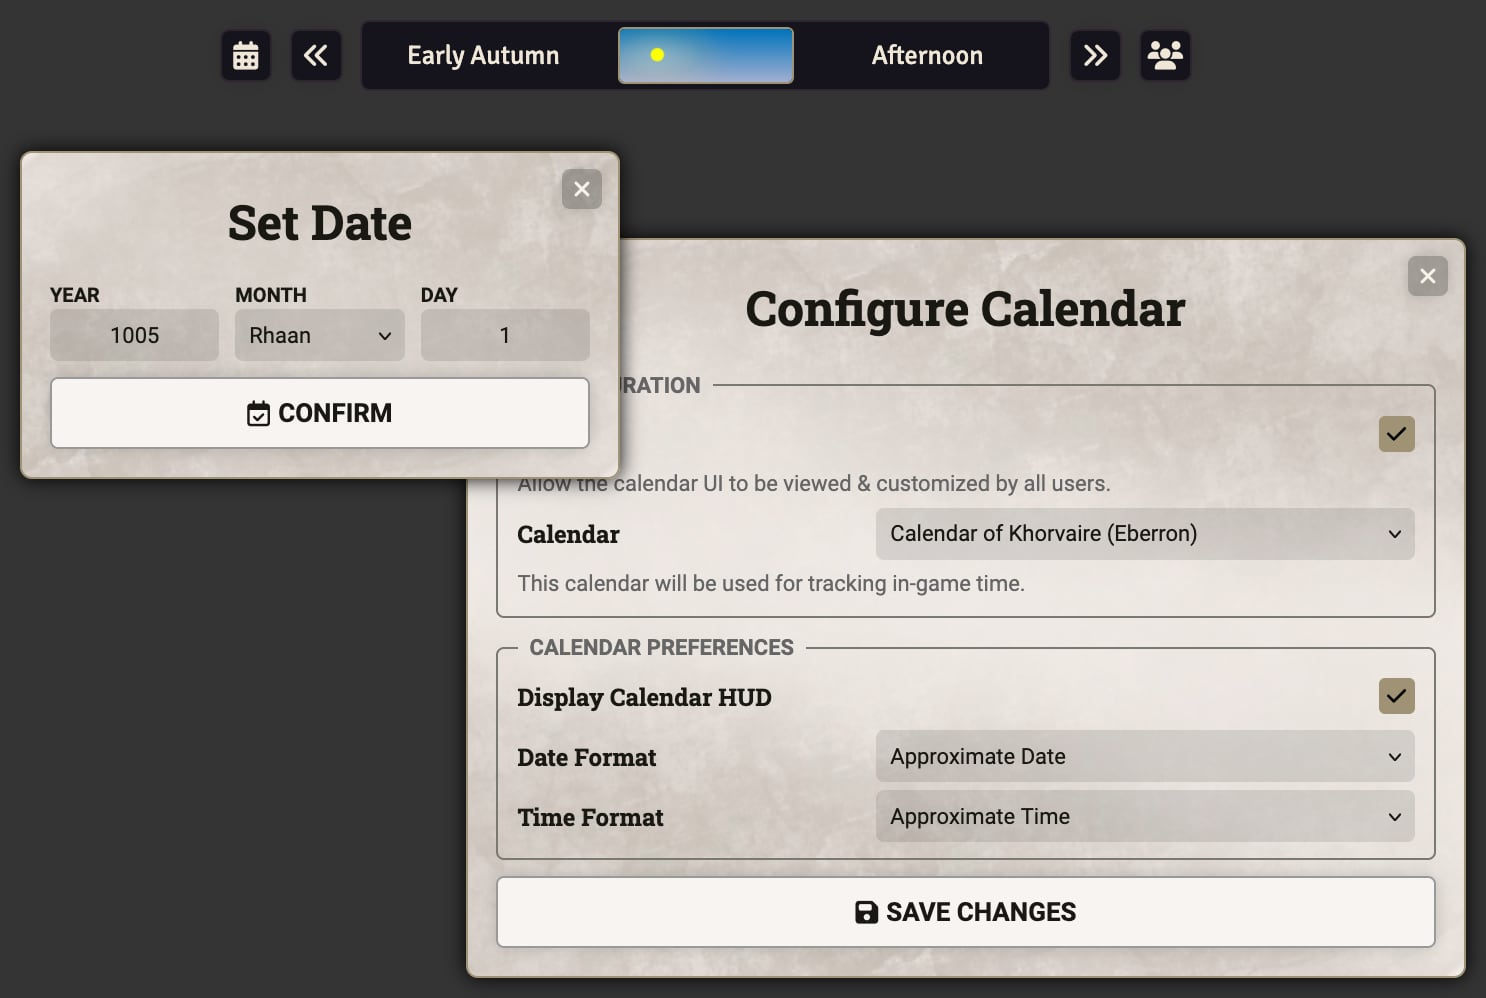
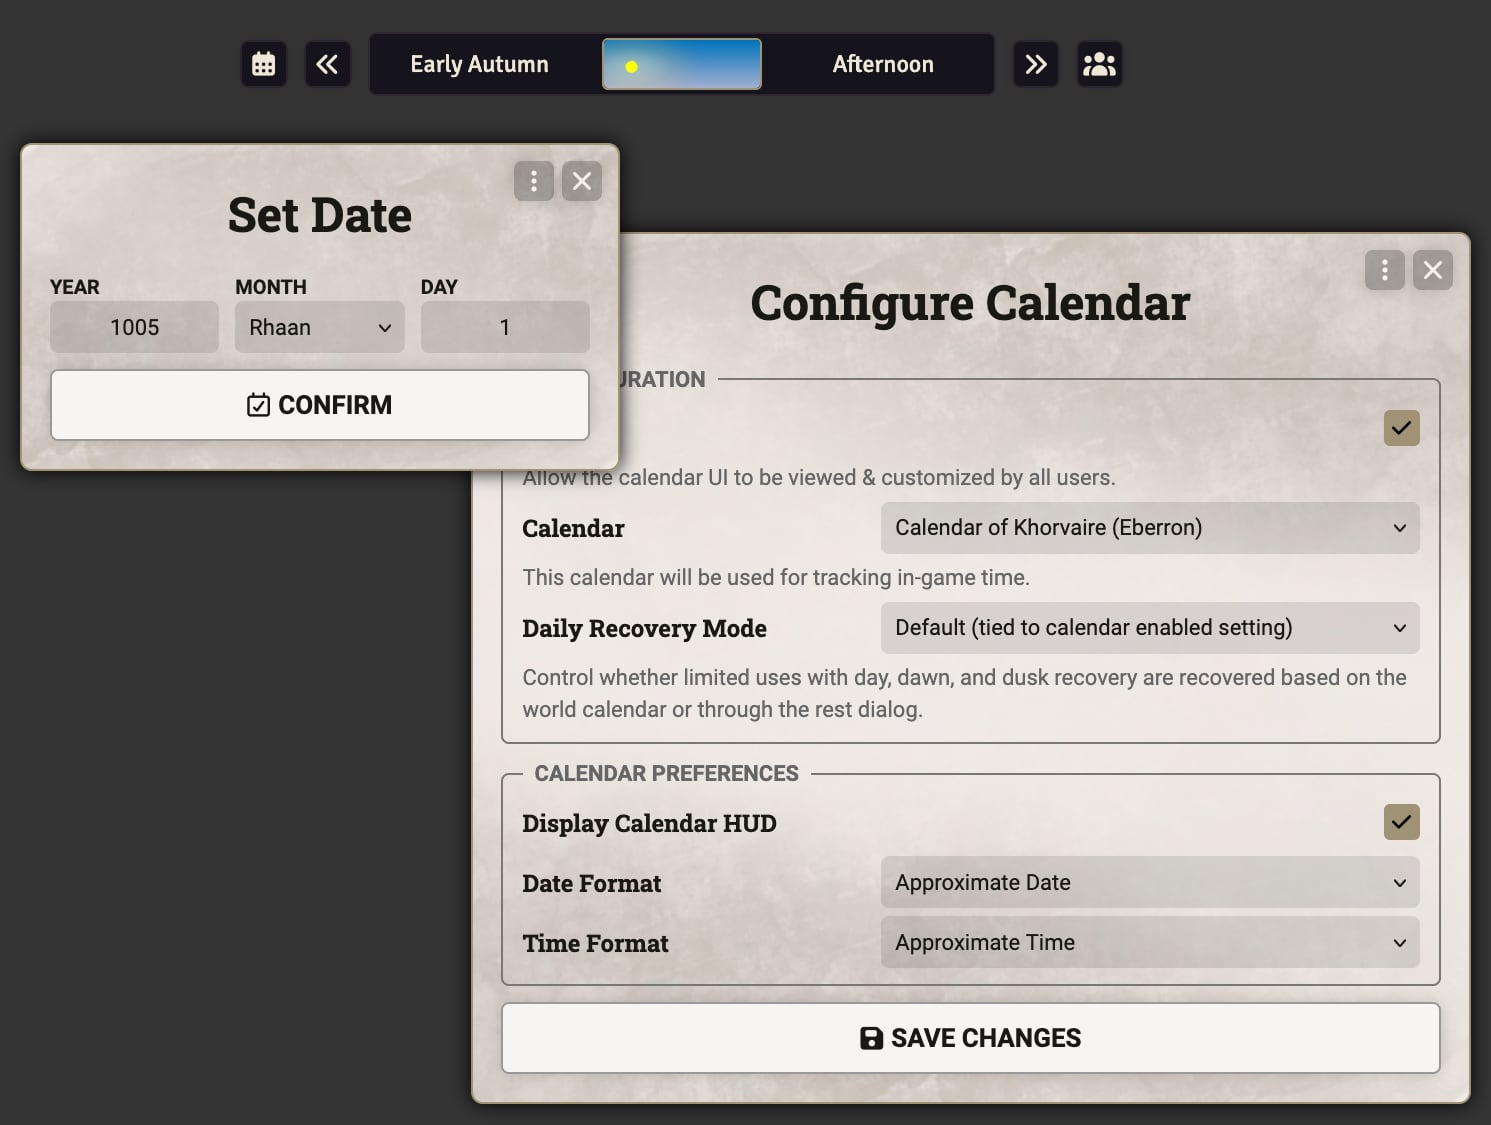
[#7198] Update Calendar docs for 6.0
- New screenshots for changed dialogs
- Document item use recovery based on time passage
- Discuss bastion turns advancing with time

Changed region(s): [[0.0, 0.1242, 0.9906, 0.994], [0.1238, 0.0, 0.8048, 0.0932], [0.9287, 0.3417, 0.9596, 0.4659]]

diff --git a/wiki/Calendar.md b/wiki/Calendar.md
@@ -1,8 +1,10 @@
-![Up to date as of 5.3.0](https://img.shields.io/static/v1?label=dnd5e&message=5.3.0&color=informational)
+![Up to date as of 6.0.0](https://img.shields.io/static/v1?label=dnd5e&message=6.0.0&color=informational)
 
 The DnD5e system extends Foundry's calendar system with a new HUD to display the date & time, various configuration options to customize how the calendar is presented, an application for jumping to a specific date, several built-in calendars for prominent 5e game settings, and an API to allow module authors to contribute their own calendars.
 
 ![Calendar HUD, Settings, and Set Date Dialog](https://raw.githubusercontent.com/foundryvtt/dnd5e/publish-wiki/wiki/images/calendar/calendar-summary.jpg)
+
+In addition to the calendar HUD, the system uses the passage of time for several gameplay mechanics. Items and activities with "Dawn", "Dusk", or "Day" usage recovery will automatically regain their uses as sunrise, sunset, or midnight respectively. Also, if the bastion system is enabled, bastion actions will automatically progress towards completion as new days occur.
 
 
 ## Calendar Setup
@@ -21,6 +23,7 @@ The GM's calendar settings has an additional "Configuration" section that isn't 
 
 - *Enabled*: Controls whether the calendar interface as a whole is enabled. If this is unchecked, no user will be able to view the calendar interface or change any of the options under "Calendar Preferences".
 - *Calendar*: Select a specific Calendar that will be used to measure time. The system provides support for the default simplified Gregorian calendar, the Calendar of Greyhawk, the Calendar of Harptos (from the Forgotten Realms), and the Calendar of Khorvaire (from Eberron). **Note:** Changing the calendar requires a restart.
+- *Daily Recovery Mode*: Controls how items with Dawn, Dusk, and Day recovery modes are handled. The default setting goes off of whether the calendar system is enabled or not. The Calendar Recovery mode means that items will recover uses when time is advances in the calendar. The Manual Recovery mode requires the selection of "New Day" in rest dialogs to trigger time-based usage recovery.
 
 
 ## Calendar HUD
@@ -144,3 +147,42 @@ Hooks.on("dnd5e.setupCalendar", () => {
 When the calendar system is disabled by a module a message will be displayed in the settings dialog to indicate that and any settings that aren't usable will be disabled.
 
 ![Calendar Settings Disabled](https://raw.githubusercontent.com/foundryvtt/dnd5e/publish-wiki/wiki/images/calendar/calendar-settings-disabled.jpg)
+
+#### Calendar Recovery with Custom Calendars
+
+If a module is providing its own calendar system but still wishes to make use of the system's time-based recovery for item and activity uses, then it should do two things.
+
+First, the Daily Recovery setting should be set to `calendar` so the system doesn't use the manual recovery option.
+
+```javascript
+game.settings.set("dnd5e", "calendarConfig", {
+  ...game.settings.get("dnd5e", "calendarConfig").toObject(),
+  dailyRecovery: "calendar"
+});
+```
+
+Second, the module's subclass of `CalendarData` should provide two new methods for determining sunrise and sunset on any given day. These are necessary for the system to handle the "Dawn" and "Dusk" recovery types:
+
+```javascript
+class MyCalendarData extends foundry.data.CalendarData {
+  /**
+   * Get the sunrise time for a given day.
+   * @param {number|TimeComponents} [time]  The time to use, by default the current world time.
+   * @returns {number}                      Sunrise time in hours.
+   */
+  sunrise(time=game.time.components) {
+    return this.days.hoursPerDay * .25;
+  }
+
+  /* -------------------------------------------- */
+
+  /**
+   * Get the sunset time for a given day.
+   * @param {number|TimeComponents} [time]  The time to use, by default the current world time.
+   * @returns {number}                      Sunset time in hours.
+   */
+  sunset(time=game.time.components) {
+    return this.days.hoursPerDay * .75;
+  }
+}
+```
